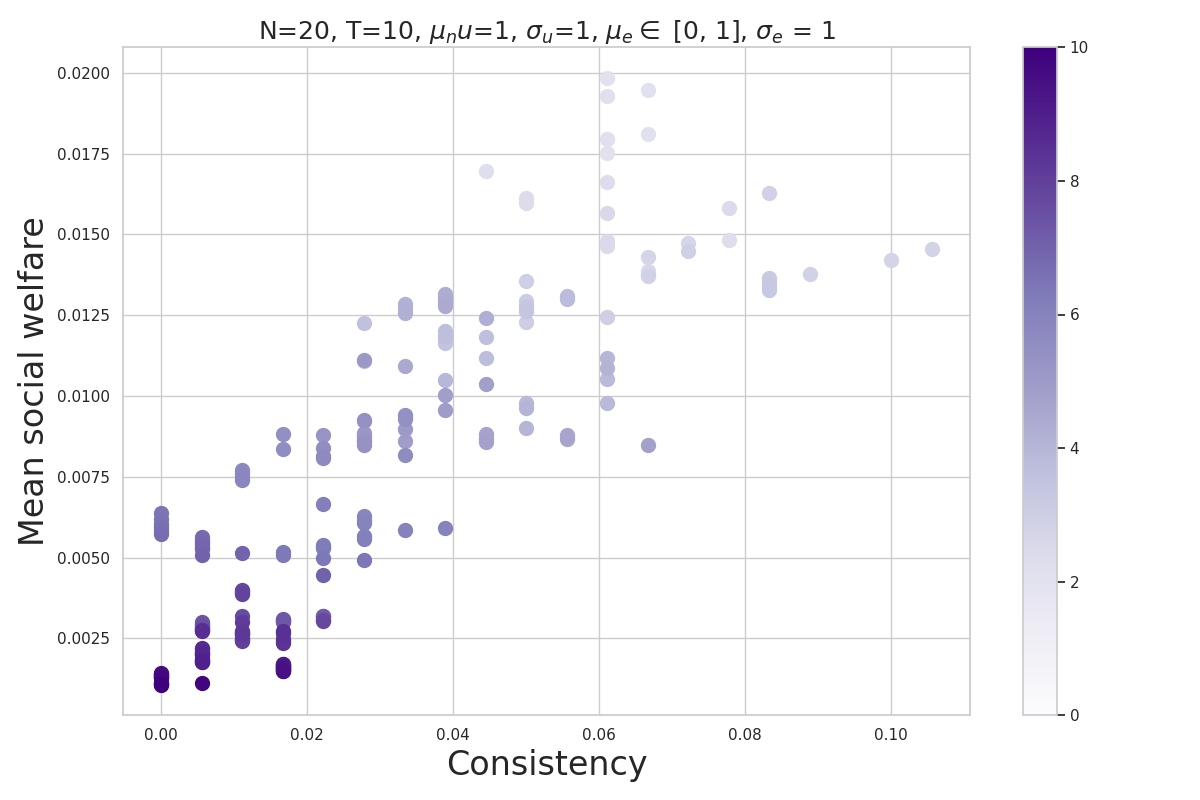
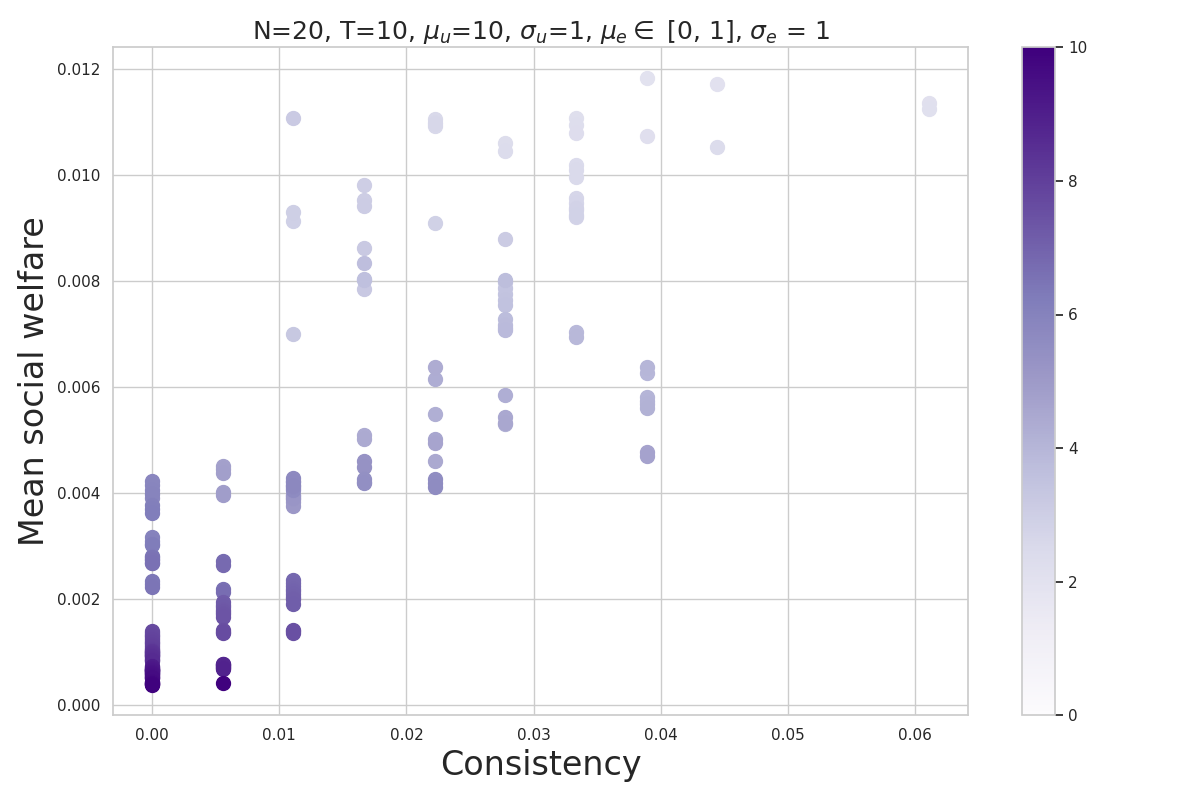
Update figures

diff --git a/code/experiments.py b/code/experiments.py
@@ -12,7 +12,7 @@ from agents import Man, Woman
 
 if __name__ == "__main__":
     dist = [
-        [1],
+        [10],
         [1],
         # [round(x, 9) for x in np.linspace(10, 30, 5)],
         # [round(x, 9) for x in np.linspace(0, 10, 5)],
@@ -81,9 +81,9 @@ if __name__ == "__main__":
     #                   names, annotations_title='Excitements', fpath='figures/mpda_dynamics_excitement.png')
     plot_tradeoff_hue_fixed_mean(social_welfares, consistencies,
                                  annotations_title='Excitement', fpath='figures/mpda_dynamics_excitement_mean.png',
-                                 title=f'N=20, T=10, $\mu_nu$=1, $\sigma_u$=1, $\mu_e \in $ [0, 1], $\sigma_e$ = 1')
+                                 title=f'N=20, T=10, $\mu_u$=10, $\sigma_u$=1, $\mu_e \in $ [0, 1], $\sigma_e$ = 1')
     dist = [
-        [1],
+        [10],
         [1],
         # [round(x, 9) for x in np.linspace(10, 30, 5)],
         # [round(x, 9) for x in np.linspace(0, 10, 5)],
@@ -152,10 +152,10 @@ if __name__ == "__main__":
     #                   names, annotations_title='Excitements', fpath='figures/mpda_dynamics_excitement.png')
     plot_tradeoff_hue_fixed_mean(social_welfares, consistencies,
                                  annotations_title='Excitement', fpath='figures/mpda_dynamics_excitement_std.png',
-                                 title=f'N=20, T=10, $\mu_u$=1, $\sigma_u$=1, $\mu_e$=0.1, $\sigma_e \in $ [0, 10]')
+                                 title=f'N=20, T=10, $\mu_u$=10, $\sigma_u$=1, $\mu_e$=0.1, $\sigma_e \in $ [0, 10]')
 
     dist = [
-        [round(x, 9) for x in np.linspace(1, 10, 1)],
+        [round(x, 9) for x in np.linspace(10, 11, 1)],
         [round(x, 9) for x in np.linspace(0, 10, 200)],
     ]
     diste = [
@@ -214,4 +214,4 @@ if __name__ == "__main__":
         #     '')
     plot_tradeoff_hue_fixed_mean(social_welfares, consistencies,
                                  annotations_title='Initializations', fpath='figures/mpda_dynamics_initliazation.png',
-                                 title=f'N=20, T=10, $\mu_u$=1, $\sigma_u \in$ [0, 10], $\mu_e$=0.1, $\sigma_e$=0.1')
+                                 title=f'N=20, T=10, $\mu_u$=10, $\sigma_u \in$ [0, 10], $\mu_e$=0.1, $\sigma_e$=0.1')

diff --git a/report/report.tex b/report/report.tex
@@ -13,8 +13,6 @@
 \usepackage{color}
 \usepackage{subcaption}
 \usepackage{subfiles}
-\usepackage{titlesec}
-
 \graphicspath{figures/}
 
 \DeclareMathOperator*{\argmax}{arg\,max}
@@ -24,10 +22,17 @@
 \author{Yunlin (Ilene) Lu\footnote{Equal Contribution} $\qquad$ Mathieu Tuli${}^*$ $\qquad$ Anqi (Joyce) Yang${}^*$}
 \date{April 2021}
 \setlength{\parindent}{0pt}
+<<<<<<< Updated upstream
 \setlength{\parskip}{10pt}
 \titlespacing*{\section}{0pt}{0.5\baselineskip}{0.5\baselineskip}
 \titlespacing*{\subsection}{0pt}{0.5\baselineskip}{0.5\baselineskip}
 \titlespacing*{\paragraph}{0pt}{0.5\baselineskip}{0.5\baselineskip}
+||||||| constructed merge base
+\setlength{\parskip}{10pt}
+\titlespacing*{\paragraph}{0pt}{0.5\baselineskip}{0.5\baselineskip}
+=======
+\setlength{\parskip}{12pt}
+>>>>>>> Stashed changes
 \begin{document}
 
 \maketitle
@@ -48,15 +53,20 @@
 % \section{Dicussion}
 % \subfile{sec/discussion}
 
+<<<<<<< Updated upstream
 \vspace{-8mm}
+||||||| constructed merge base
+\vspace{-10mm}
+=======
+>>>>>>> Stashed changes
 \input{sec/intro}
 \input{sec/related}
 \input{sec/problem}
 \input{sec/experiment}
 \input{sec/discussion}
 
-\bibliography{ref}
 \bibliographystyle{abbrv}
+\bibliography{ref}
 
 \end{document}
 % 
